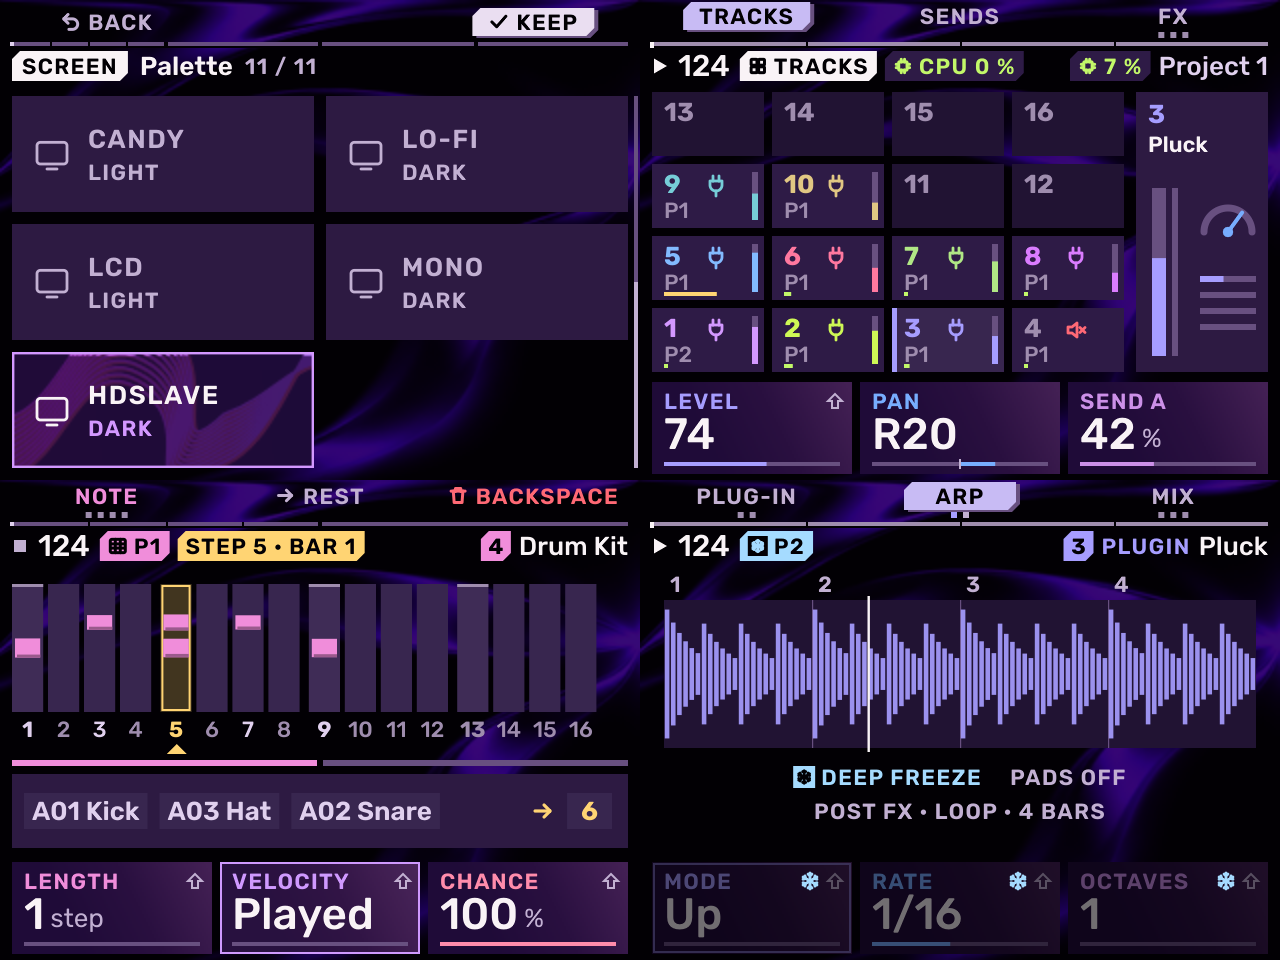
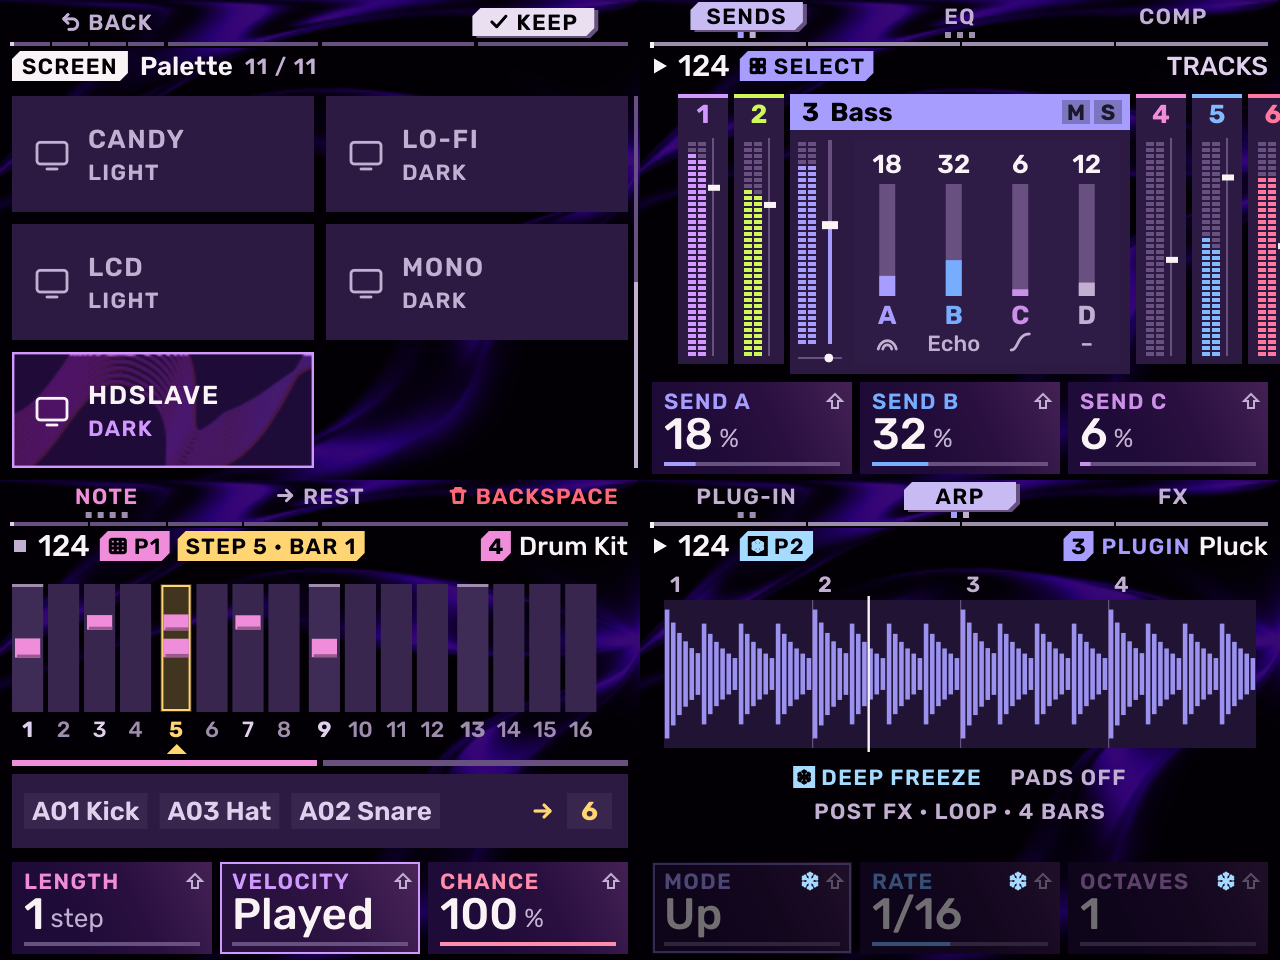
docs: showcase hdslaveOS 0.8.1 screens and mixer

diff --git a/README.md b/README.md
@@ -18,14 +18,16 @@ git clone --recurse-submodules https://github.com/hdslave/hdslave-MPCSample-Synt
 
 [**hdslaveOS**](https://github.com/hdslave/hdslaveOS) (formerly `melodee-hdslave`) is hdslave's performance-tuned fork of [Melodee](https://github.com/keremimo/melodee-sample) by Kerem Kiliç (Ellic Studio), tracking Melodee v0.7.1. It cuts idle CPU and display overhead while staying bit-identical in audio, and powers the custom plug-in screens shown below. Download the unsigned OS package and its matching MPC plug-in bundle from the [hdslaveOS v0.7.1-hdslave.13 release](https://github.com/hdslave/hdslaveOS/releases/tag/v0.7.1-hdslave.13).
 
+Screenshots from the hdslaveOS 0.8.1 development build.
+
 <table>
   <tr>
     <td align="center" width="50%">
-      <a href="https://github.com/hdslave/hdslaveOS"><img src="docs/previews/hdslave-theme.png" alt="hdslaveOS HDSLAVE purple flare theme on the Palette, Tracks, Step Edit, and Deep Freeze screens" width="400"></a><br>
+      <a href="https://github.com/hdslave/hdslaveOS"><img src="docs/previews/hdslave-theme.png" alt="hdslaveOS HDSLAVE purple flare theme on the Palette, Mixer, Step Edit, and Deep Freeze screens" width="400"></a><br>
       <sub><b>HDSLAVE</b> — default static purple flare on black</sub>
     </td>
     <td align="center" width="50%">
-      <a href="https://github.com/hdslave/hdslaveOS"><img src="docs/previews/hdslave-mono-theme.png" alt="hdslaveOS MONO black-and-white dark palette across 16 screens" width="400"></a><br>
+      <a href="https://github.com/hdslave/hdslaveOS"><img src="docs/previews/hdslave-mono-theme.png" alt="hdslaveOS MONO black-and-white palette across 16 screens, including the Mixer" width="400"></a><br>
       <sub><b>MONO</b> — high-contrast black-and-white dark mode</sub>
     </td>
   </tr>
@@ -35,6 +37,13 @@ git clone --recurse-submodules https://github.com/hdslave/hdslave-MPCSample-Synt
 - **Custom plug-in screens**: Uses Melodee 0.7’s `melodee.screen/1` extension. The synths and drum machines have interactive Edit and Stage pages, and Cortex Filter also has an FX rack strip.
 - **Playability**: Wakes sleeping plug-ins when you turn a knob, keys the master compressor's Sidechain from a plug-in's second output (Foundry's kick-only **SC Key**), steps a bar at a time with **SHIFT + encoder** on Step Edit, and lights kit pads more vividly.
 - **Non-destructive**: Runs from the microSD card (`autorun/melodee` and `Melodee/`), licensed AGPL-3.0 like Melodee. See [hdslaveOS/README.md](https://github.com/hdslave/hdslaveOS) for build and install details.
+
+### Mixer in 0.8.1
+
+<p align="center">
+  <img src="docs/previews/hdslave-mixer.png" alt="Four views of the hdslaveOS mixer showing submix sends, insert effects, channel EQ, and compression" width="760">
+  <br><sub>Submix sends, insert effects, channel EQ, and compression.</sub>
+</p>
 
 ---
 
